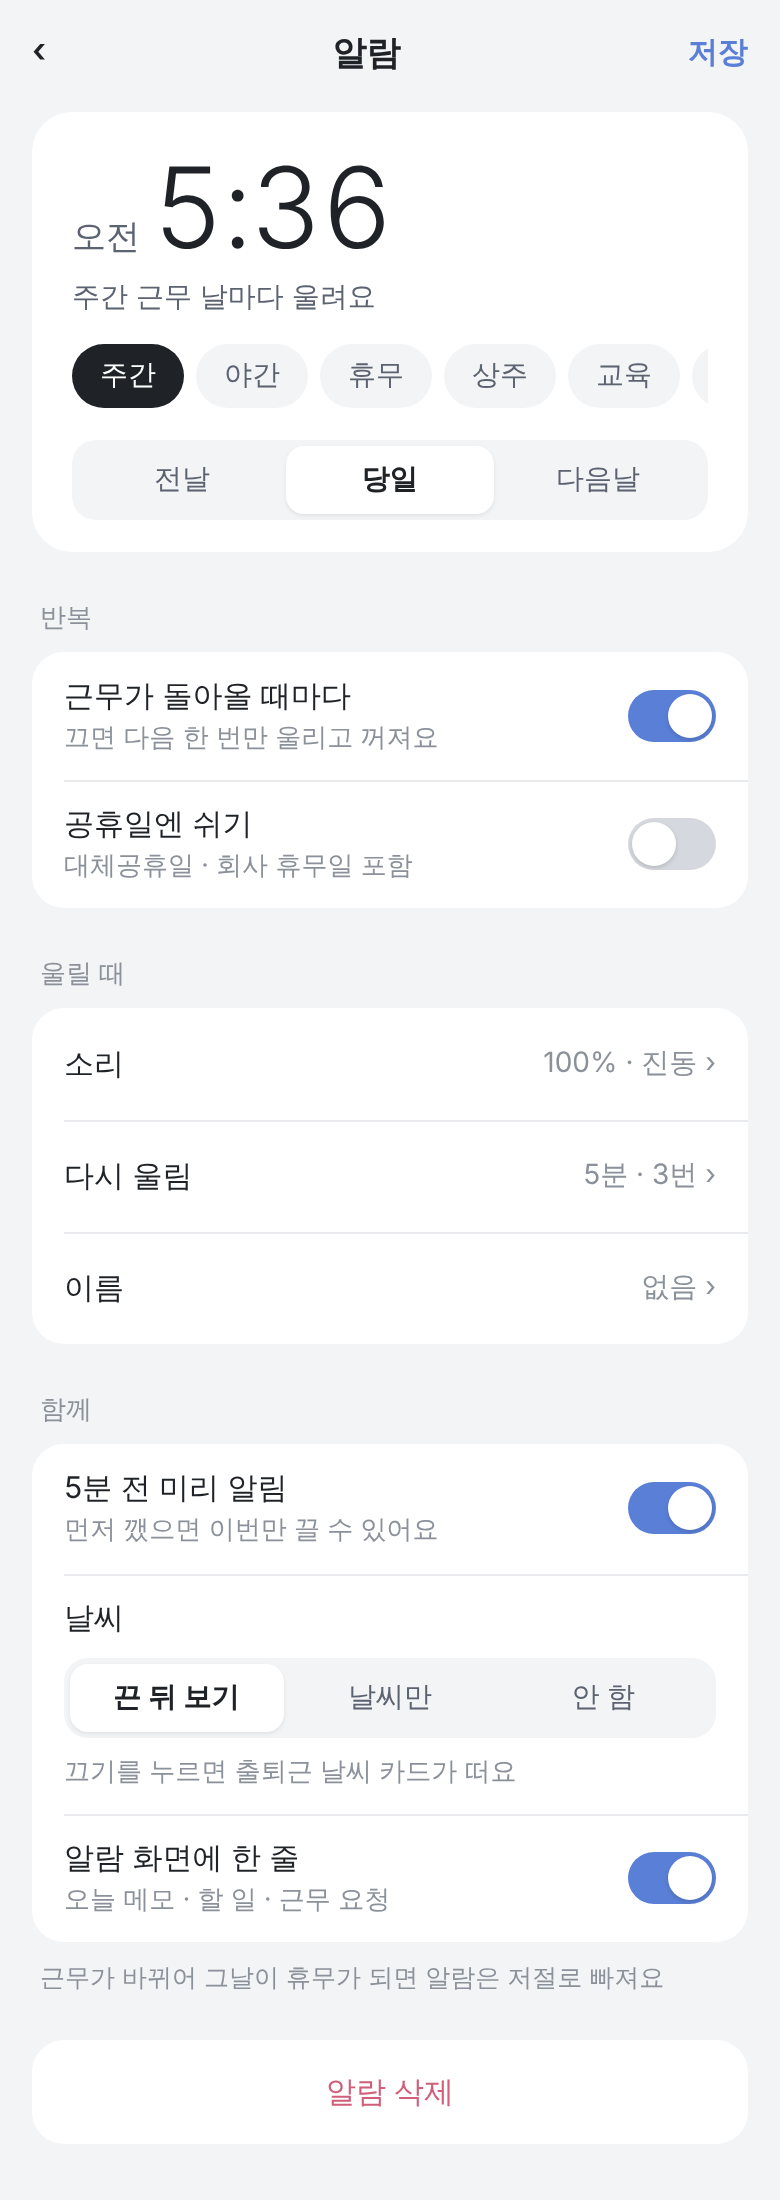
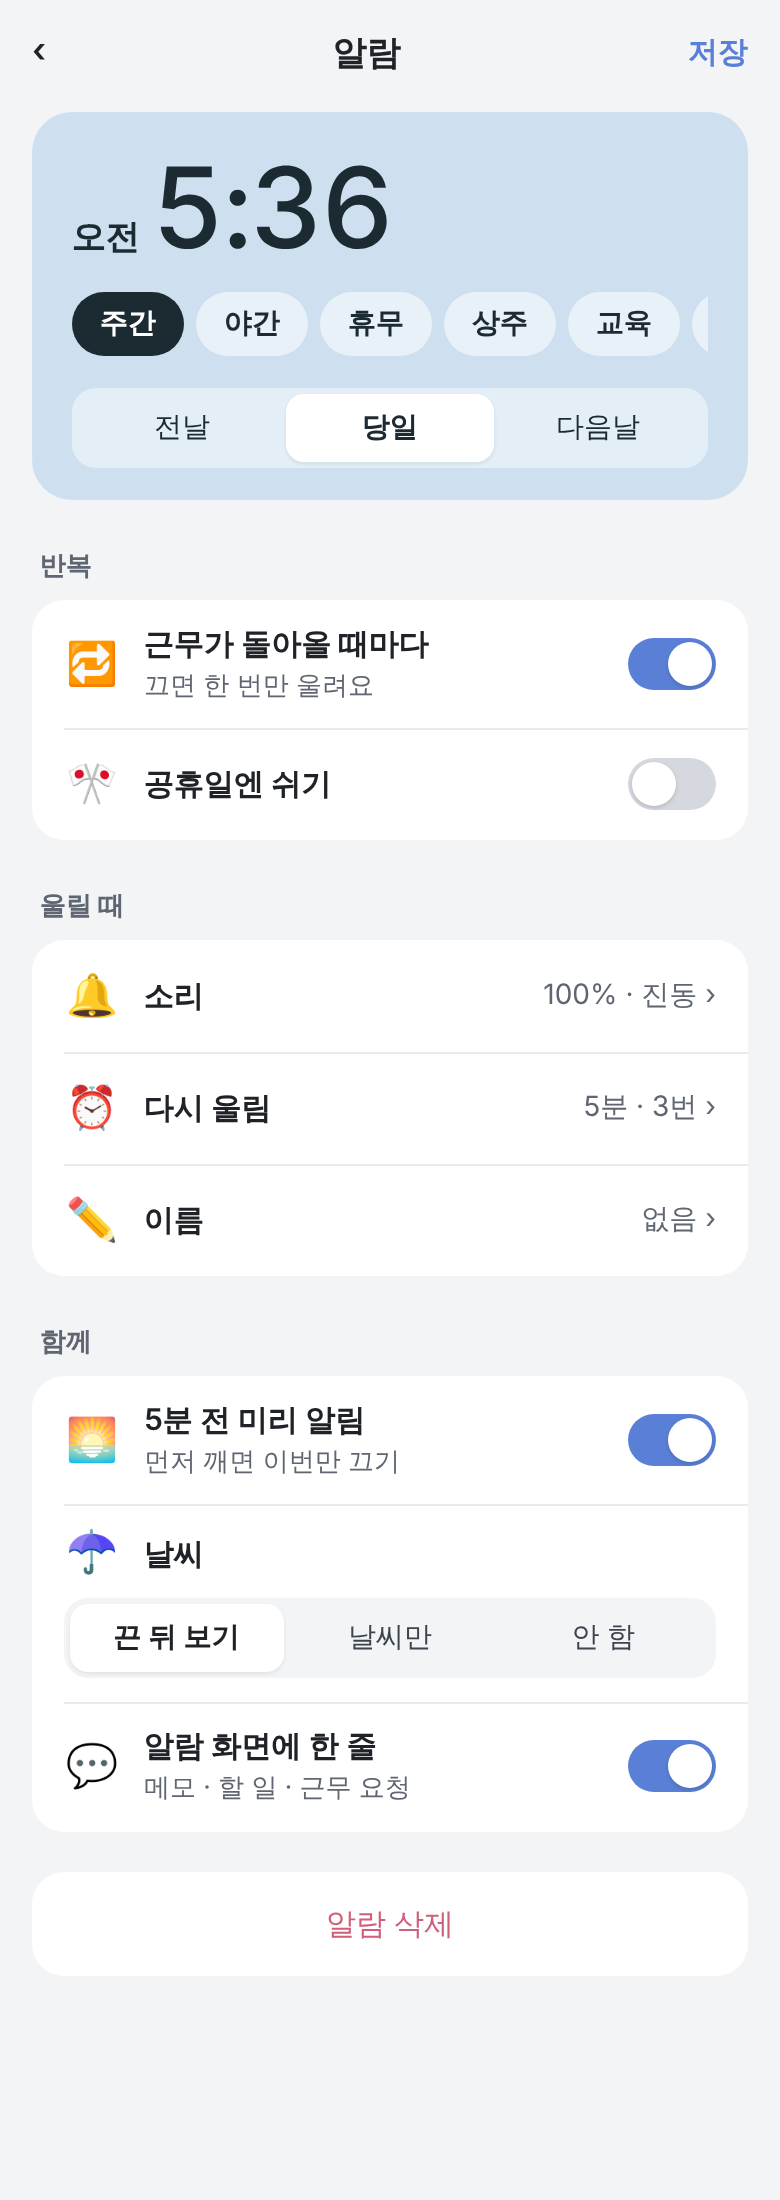
design: 알람 고치기 시안 3 (근무 색 · 진한 글씨 · 아이콘) · TODO 설명문 줄이기
Claude-Session: https://claude.ai/code/session_01JTBnEvptp151JygSjZNCTX

diff --git a/docs/TODO.md b/docs/TODO.md
@@ -2438,10 +2438,18 @@
   ⑤ (작은 것) v0.141 CSS 주석이 엉뚱한 줄로 밀림 · overflow-wrap 이 모든 날씨 칸에 걸림.
 - 서버 규칙(firestore.rules) 보안 점검: 다른 가족 · 모르는 사람이 남의 데이터를 읽거나 바꾸는 구멍은 못 찾음 (2026-11-15).
 
-## 알람 고치기 화면 한눈에 · 설명 풀기 (사용자 2026-11-15 · 스크린샷)
+## 알람 고치기 화면 새 모양 (사용자 2026-11-15 · 시안 design/alarm-edit/compare.png = 시안 3 확정 대기)
+- 시안 3: 맨 위 칸 = 그 근무 색 바탕 · 큰 시간(진하게) · 근무 칩(고른 것 진한 색) · 전날/당일/다음날. 요약 문장 없음.
+- 묶음: 반복(🔁 근무가 돌아올 때마다 · 🎌 공휴일엔 쉬기) / 울릴 때(🔔 소리 · ⏰ 다시 울림 · ✏ 이름 — 오른쪽에 값) / 함께(🌅 5분 전 미리 알림 · ☂ 날씨 3칸 · 💬 알람 화면에 한 줄).
+- 글씨 진하게(설명 회색도 진하게) · 설명은 꼭 필요한 것만 한 줄.
+- (아래는 처음 생각)
 - 문제: 줄 9개가 한 줄로 쭉 · 설명이 " · " 이어 붙인 메모 같음 ("먼저 깼으면 … · 소리 없음 · 알람 때 저절로 사라짐").
 - 제안 (시안 먼저):
   ① 맨 위 한 문장 요약: "주간 근무 날 오전 5:36에 울려요 · 매번" (고르는 대로 바뀜).
   ② 묶음 3개로 나누기: 언제 울릴까(근무타입 · 알람일 · 시간 · 반복 · 공휴일) / 어떻게 울릴까(소리 · 다시 울림 · 이름) / 함께 보기(5분 전 알림 · 날씨 · 한 줄).
   ③ 설명을 보통 문장으로: 예) 5분 전 알림 = "먼저 일어났다면 울리기 전에 이번만 끌 수 있어요. 소리 없이 떴다가 알람이 울리면 사라져요."
   ④ 줄 앞 이모지(⏰ ☂ 💬 🔊 🗑) 빼기 (AI 티 줄이기와 같이).
+
+## 앱 곳곳의 필요 없는 설명문 줄이기 (사용자 2026-11-15: "어른들이 볼 건데")
+- 판단: 좋음. 다만 기능이 하는 일을 모르면 헷갈리는 것(예: 5분 전 알림 · 알람반복 끄면 한 번만)은 짧게 남김. 뻔한 것(예: "주간 근무 날마다 울려요" · "공휴일 · 대체공휴일 · …" · 회색 안내 줄)은 뺌.
+- 만들 때 화면별로 설명 줄을 모아 남길 것 / 뺄 것 목록을 먼저 보여 주기.
